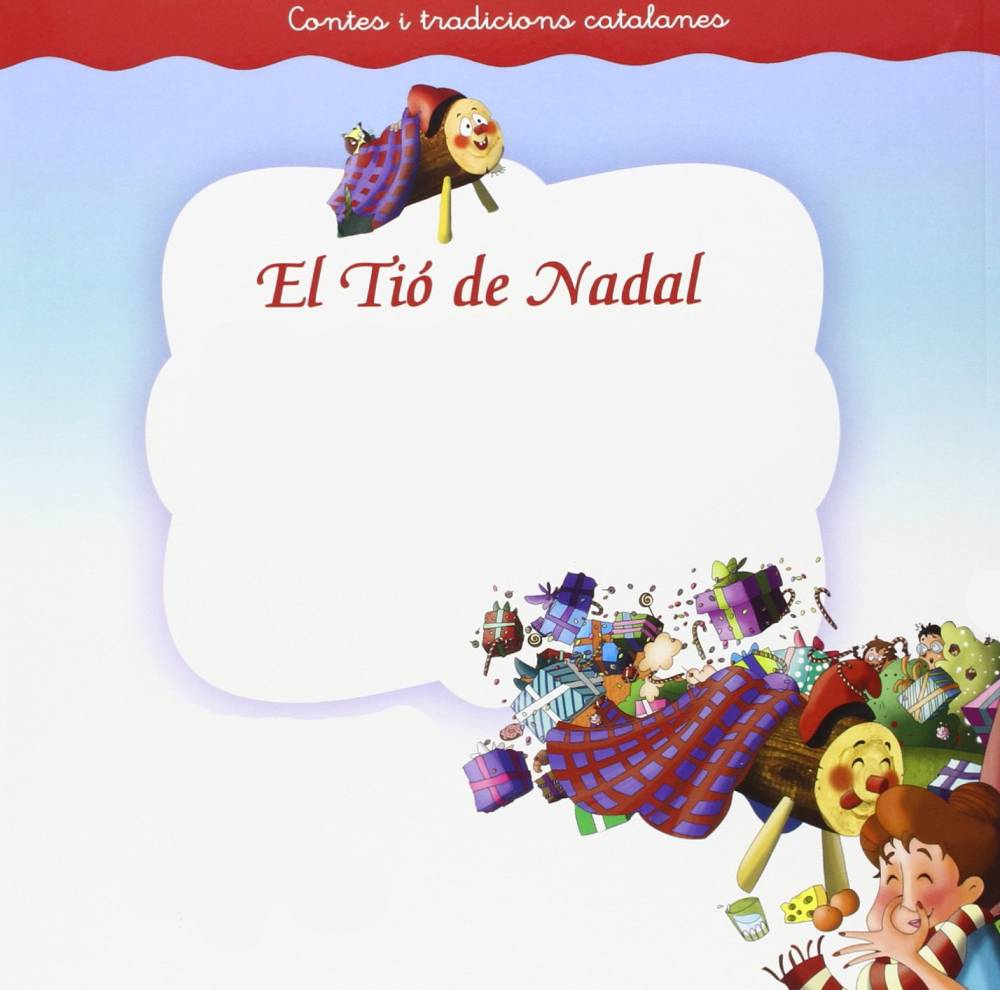
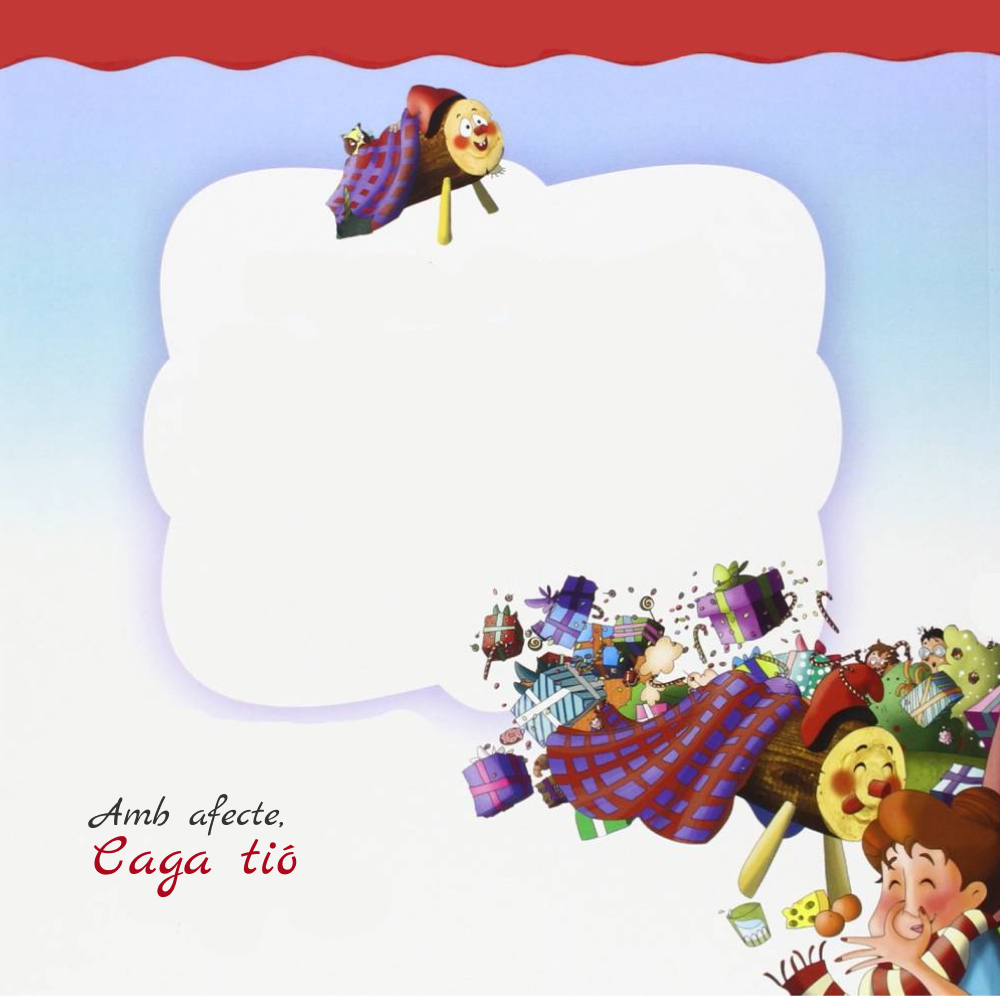
Act html2canvas letter

diff --git a/assets/styles/sass/views/_letter.scss b/assets/styles/sass/views/_letter.scss
@@ -6,6 +6,7 @@
         width: 90%;
         margin: 0 auto;
         margin-top: 30px;
+        padding-top: 90px;
         @media screen and (min-width: 1200px){
             width: 80%;
         }
@@ -14,7 +15,7 @@
             text-align: center;
             text-align: center;
             padding-bottom: 100px;
-            margin-bottom: 65px;
+            margin-bottom: 30px;
             &::after {
                 content: '';
                 position: absolute;
@@ -33,6 +34,7 @@
             padding: 15px;
             border-radius: 8px;
             margin-top: 30px;
+            margin-bottom: 65px;
             @media screen and (min-width: 1200px) {
                 background: none;
                 padding: 0;
@@ -52,6 +54,7 @@
                 align-items: center;
                 justify-content: space-between;
                 align-content: center;
+                margin-bottom: 45px;
                 .form-control {
                     width: calc(45% - 10px);
                     margin: 10px;
@@ -129,7 +132,7 @@
                 display: flex;
                 flex-direction: column;
                 @media screen and (min-width: 1200px) {
-                    width: 40%;
+                    width: 100%;
                 }
                 .form-control {
                     display: flex;
@@ -146,8 +149,14 @@
                         font-size: 16px;
                         font-family: $font-family;
                     }
+                    input {
+                        width: 50%;
+                    }
                     textarea {
                         min-height: 250px;
+                        @media screen and (min-width: 1200px) {
+                            min-height: auto;
+                        }
                     }
                     #the-count {
                         text-align: right;
@@ -192,26 +201,81 @@
                         width: 100%;
                     }
                     .content-letter {
-                        position: absolute;
-                        top: 530px;
+                        position: absolute;                        
                         left: 50%;
                         transform: translate(-50%, -50%);
                         width: 80%;
                     }
                     &.letter-santa {
-                        font-family: 'Parisienne', cursive;
+                        font-family: 'Marck Script', cursive;
                         .content-letter {
+                            top: 565px;
                             .name-kid {
-                                color: $color-rojo;
-                                font-size: 40px;
+                                color: #b00409;
+                                font-size: 45px;
                                 font-weight: bold;
                                 line-height: 1;
                                 margin: 0;
                                 margin-bottom: 25px;
                             }
                             .msg-to-kid {
+                                font-size: 26px;
+                                color: #060606;
+                            }
+                        }
+                    }
+                    &.letter-olentzero {
+                        font-family: 'Marck Script', cursive;
+                        .content-letter {
+                            top: 295px;
+                            .name-kid {
+                                color: #b00409;
+                                font-size: 45px;
                                 font-weight: bold;
-                                font-size: 23px;
+                                line-height: 1;
+                                margin: 0;
+                                margin-bottom: 25px;
+                            }
+                            .msg-to-kid {
+                                font-size: 26px;
+                                color: #060606;
+                            }
+                        }
+                    }
+                    &.letter-kings {
+                        font-family: 'Marck Script', cursive;
+                        .content-letter {
+                            top: 545px;
+                            .name-kid {
+                                color: #b00409;
+                                font-size: 45px;
+                                font-weight: bold;
+                                line-height: 1;
+                                margin: 0;
+                                margin-bottom: 25px;
+                            }
+                            .msg-to-kid {
+                                font-size: 26px;
+                                color: #060606;
+                            }
+                        }
+                    }
+                    &.letter-cagatio {
+                        font-family: 'Marck Script', cursive;
+                        .content-letter {
+                            top: 315px;
+                            width: 57%;
+                            .name-kid {
+                                color: #b00409;
+                                font-size: 30px;
+                                font-weight: bold;
+                                line-height: 1;
+                                margin: 0;
+                                margin-bottom: 15px;
+                            }
+                            .msg-to-kid {
+                                font-size: 16px;
+                                color: #060606;
                             }
                         }
                     }

diff --git a/index.html b/index.html
@@ -48,7 +48,7 @@
             <div class="cluster">
               <img src="/assets/images/blog_christmas.png">
             </div>
-            <p>"But I must explain to you how all this mistaken idea of denouncing pleasure and praising pain was born and I will give you a complete account of the system, and expound the actual teachings of the great explorer of the truth, the master-builder of human happiness. No one rejects, dislikes, or avoids pleasure itself, because it is pleasure, but because those who do not know how to pursue pleasure rationally encounter consequences that are extremely painful. Nor again is there anyone who loves or pursues or desires to obtain pain of itself, because it is pain, but because occasionally circumstances occur in which toil and pain can procure him some great pleasure. To take a trivial example, which of us ever undertakes laborious physical exercise, except to obtain some vantage from it? But who has any right to find fault with a man who chooses to enjoy a pleasure that has no annoying equences, or one who avoids a pain that produces no resultant pleasure?"</p>
+            <p>Lorem ipsum dolor sit, amet consectetur adipisicing elit. Consectetur sunt odit, aut obcaecati facere quia voluptate quisquam a sed quibusdam recusandae eum non nihil ad tempora nobis saepe minima molestias omnis modi eveniet itaque adipisci cum ab. Error, voluptate officiis repellendus, animi a id veniam minus ad aliquid reprehenderit iure?</p>
           </div>
         </div>
       </section>

diff --git a/pide-tu-carta/index.html b/pide-tu-carta/index.html
@@ -103,9 +103,9 @@
               </div>
               <a href="#" class="btns btn-download" id="btnDownload">Descarga tu carta!</a>
             </div>
-          </div>          
+          </div>
         </div>
-      </section>
+      </section>     
     </main>
     <footer>
         <div class="top-info">
@@ -142,17 +142,7 @@
     </footer>
     <!-- JQuery -->
     <script src="https://cdnjs.cloudflare.com/ajax/libs/jquery/3.6.1/jquery.min.js" integrity="sha256-o88AwQnZB+VDvE9tvIXrMQaPlFFSUTR+nldQm1LuPXQ=" crossorigin="anonymous"></script>
-    <script src="https://cdnjs.cloudflare.com/ajax/libs/html2canvas/0.5.0-beta4/html2canvas.js"></script>
+    <script src="https://html2canvas.hertzen.com/dist/html2canvas.js"></script>
     <script src="../assets/js/main.js"></script>  
 </body>
 </html>
-
-<section class="section-less">
-  <div class="content-less">
-    <p>Preprocesador LESS</p>
-    <ul>
-      <li>Variables</li>
-      <li>Anidamiento</li>
-    </ul>
-  </div>
-</section>

diff --git a/assets/styles/sass/base/_typos.scss b/assets/styles/sass/base/_typos.scss
@@ -1,14 +1,5 @@
 // Tipografias
 @import url('https://fonts.googleapis.com/css2?family=Poppins:ital,wght@0,100;0,200;0,300;0,400;0,500;0,600;0,700;0,800;0,900;1,100;1,200;1,300;1,400;1,500;1,600;1,700;1,800;1,900&display=swap');
 
-// Typo Santa Letter
-@import url('https://fonts.googleapis.com/css2?family=Parisienne&display=swap');
-
-// Typo Kings Letter
-@import url('https://fonts.googleapis.com/css2?family=Parisienne&display=swap');
-
-// Typo Olentzero Letter
-@import url('https://fonts.googleapis.com/css2?family=Parisienne&display=swap');
-
-// Typo Cagatió Letter
-@import url('https://fonts.googleapis.com/css2?family=Parisienne&display=swap');
+// Typo Letters
+@import url('https://fonts.googleapis.com/css2?family=Marck+Script&display=swap');

diff --git a/nuestros-clientes/index.html b/nuestros-clientes/index.html
@@ -33,6 +33,7 @@
     </header>
     <main>
       <!-- Aqui va tu código, por fa no modifiques ni el header ni el footer :) <3 -->
+        <p>Lorem ipsum dolor sit amet consectetur, adipisicing elit. Porro quisquam eius cum dolores saepe quae rerum eveniet, odit voluptatibus magnam illo officiis adipisci aliquam voluptatum officia labore tenetur molestiae? Assumenda?</p>
     </main>
     <footer>
         <div class="top-info">
